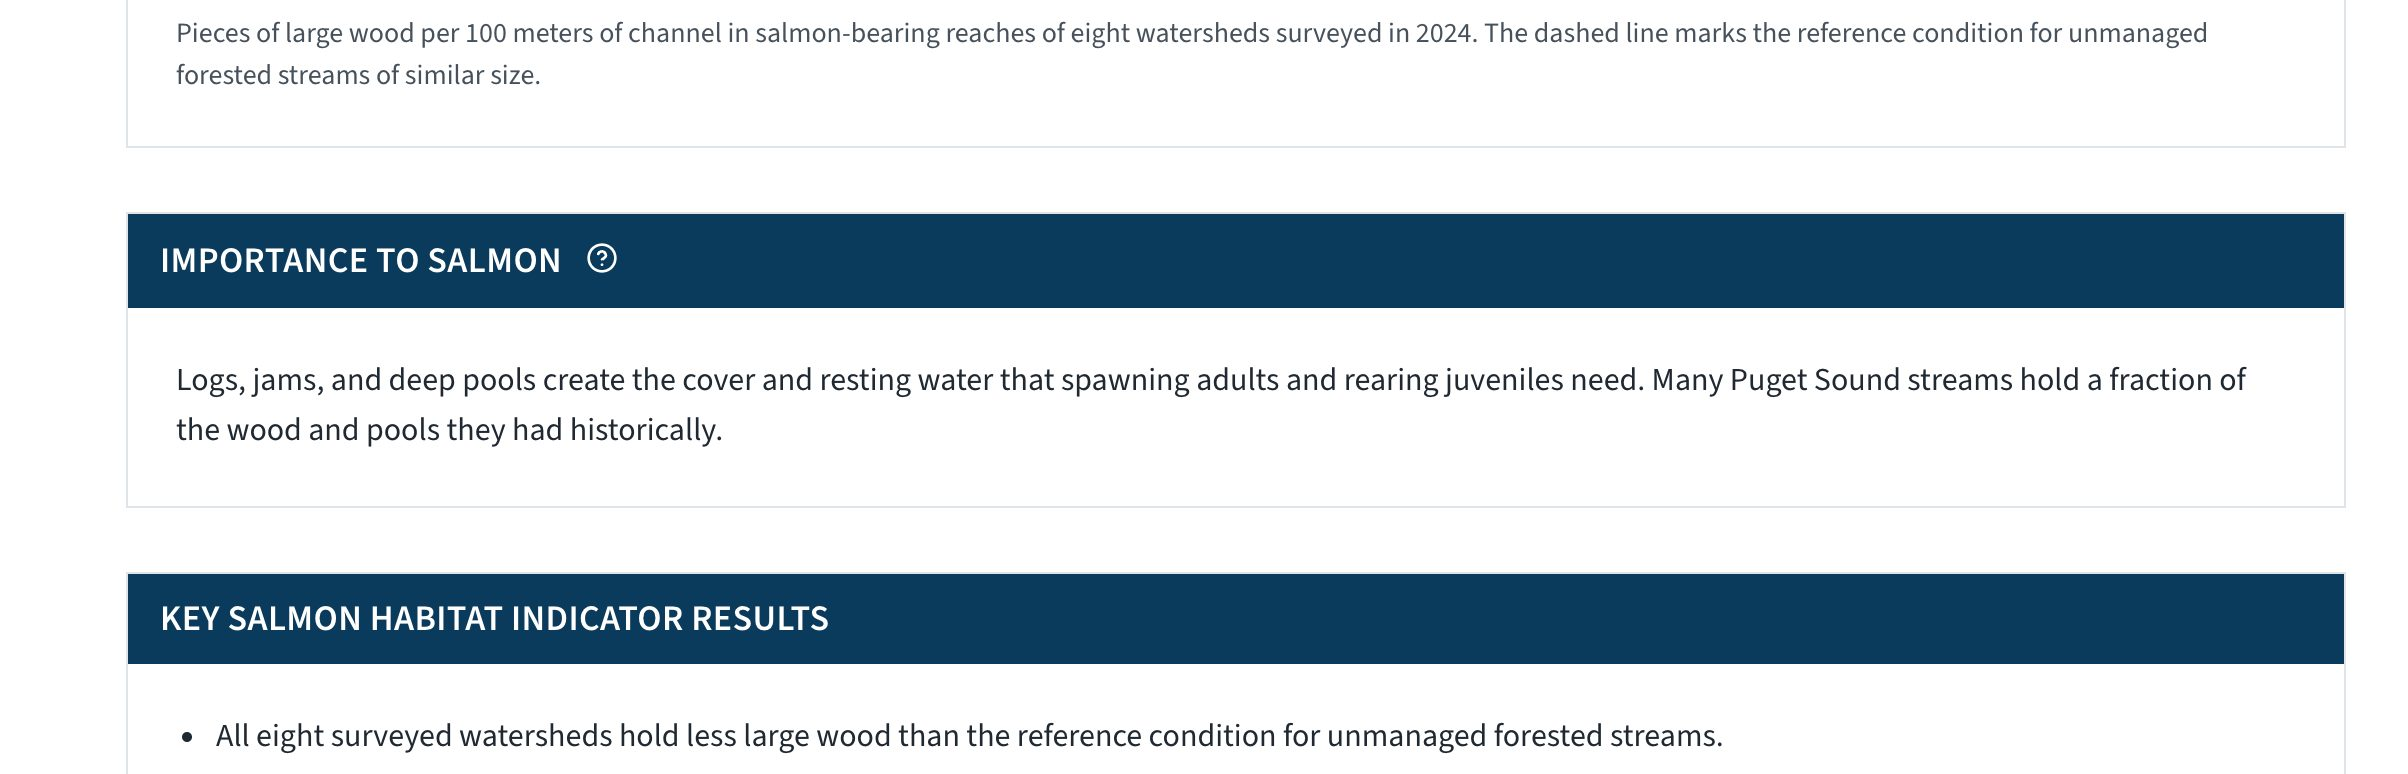
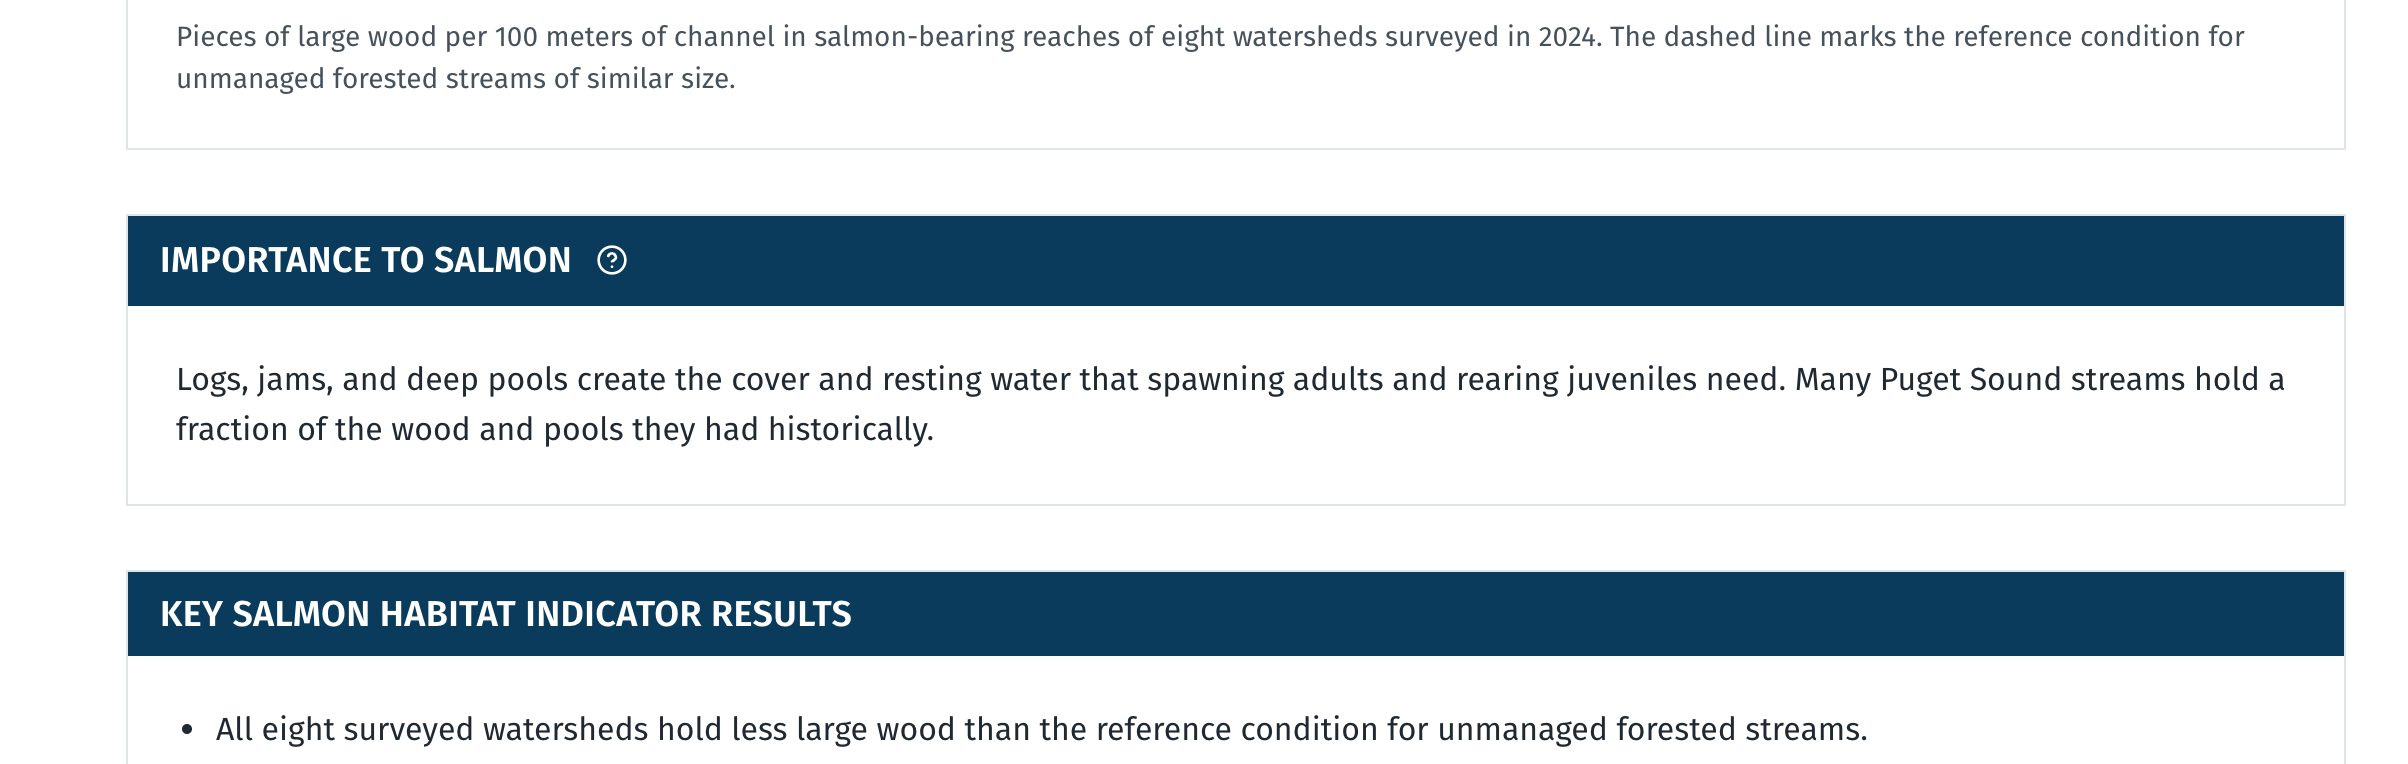
SHI theme: outrank theme-ps-info whatever the bundle order
The production bundle loaded theme-ps-info after theme-shi, so Lora won over
Fira Sans on the published SHI pages. html[data-theme] beats [data-theme].

diff --git a/src/styles/theme-shi.css b/src/styles/theme-shi.css
@@ -8,8 +8,12 @@
  * Text on each fill is chosen for WCAG 1.4.3: white clears 4.5:1 on the purple
  * (#8228bf, 7.0:1) and the blue (#0e59aa, 6.9:1); on the green (#31b6a3) white
  * measures 2.5:1, so it carries the deepest brand navy instead (6.7:1).
+ *
+ * The selector is html[data-theme] so it outranks theme-ps-info's
+ * [data-theme] whatever order the build bundles the two sheets in (the
+ * production bundle put theme-ps-info last and its Lora won).
  */
-[data-theme="ps-info"] {
+html[data-theme="ps-info"] {
   --shi-category-purple:    #8228bf;
   --shi-category-green:     #31b6a3;
   --shi-category-blue:      #0e59aa;
